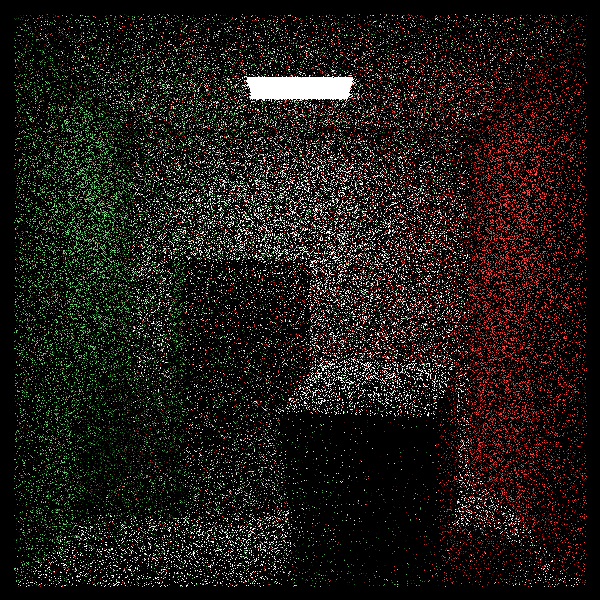
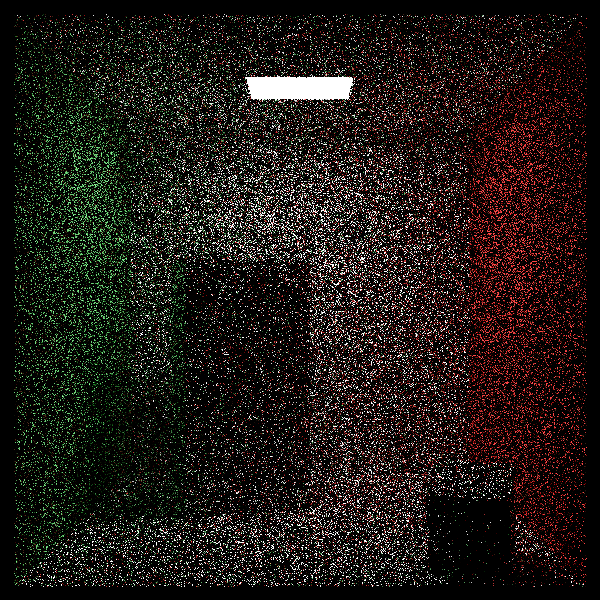
Cornell scene with scaling boxes

diff --git a/hittable.h b/hittable.h
@@ -173,7 +173,7 @@ private:
     }
 };
 
-// 按顺序绕 x, y, z 轴逆时针旋转 α, β, γ 度（注意绕轴顺序不通得到的结果大部分情况是不同的！）
+// 按顺序绕 x, y, z 轴逆时针旋转 α, β, γ 度（注意绕轴顺序不同得到的结果大部分情况是不同的！）
 // https://blog.csdn.net/shenquanyue/article/details/103262512
 /*
  * 首先绕 X 轴逆时针旋转 α 度
@@ -209,9 +209,9 @@ private:
  * z''' = -sin(α)y'' + cos(α)z'' = sin(α)sin(γ)x - sin(α)cos(γ)y + cos(α)cos(β)z + sin(β)cos(α)cos(γ)x + sin(β)sin(γ)cos(α)y
  * 							    = (sin(β)cos(α)cos(γ) + sin(α)sin(γ))x + (sin(β)sin(γ)cos(α) - sin(α)cos(γ))y + cos(α)cos(β)z
  */
-class rotate : public hittable {
+class rotate_xyz : public hittable {
 public:
-    rotate(shared_ptr<hittable> object, float alpha, float beta, float gamma) : object(object) {
+    rotate_xyz(shared_ptr<hittable> object, float alpha, float beta, float gamma) : object(object) {
         auto alpha_radians = degrees_to_radians(alpha);
         auto beta_radians = degrees_to_radians(beta);
         auto gamma_radians = degrees_to_radians(gamma);
@@ -307,6 +307,40 @@ private:
                      cos_alpha * cos_beta * v.z();
         return vec3(vec_x, vec_y, vec_z);
     }
+};
+
+// 缩放操作
+class scaling : public hittable {
+public:
+    scaling(shared_ptr<hittable> object, const vec3 &scale) : object(object), scale(scale) {
+        bbox = object->bounding_box() * scale;
+    }
+
+    bool hit(const ray &r, interval ray_t, hit_record &rec) const override {
+        // Transform the ray from world space to object space
+        ray scaling_r(r.origin() / scale, r.direction() / scale, r.time());
+
+        // Determine whether an intersection exists in objects in object space (and if so, where).
+        if (!object->hit(scaling_r, ray_t, rec))
+            return false;
+
+        // Transform the intersection from object space back to world space.
+        rec.p *= scale;
+
+        // 调整法向量
+        rec.normal = unit_vector(rec.normal / scale);
+
+        return true;
+    }
+
+    aabb bounding_box() const override {
+        return bbox;
+    }
+
+private:
+    shared_ptr<hittable> object;
+    vec3 scale;
+    aabb bbox;
 };
 
 #endif // HITTABLE_H

diff --git a/main.cpp b/main.cpp
@@ -258,13 +258,14 @@ void cornell_box() {
 
     // two blocks
     shared_ptr<hittable> box1 = box(point3(0.0f, 0.0f, 0.0f), point3(165.0f, 330.0f, 165.0f), white);
-    box1 = make_shared<rotate>(box1, 0.0f, 15.0f, 0.0f);
+    box1 = make_shared<rotate_xyz>(box1, 0.0f, 15.0f, 0.0f);
     box1 = make_shared<translate>(box1, vec3(265.0f, 0.0f, 295.0f));
     world.add(box1);
 
     shared_ptr<hittable> box2 = box(point3(0.0f, 0.0f, 0.0f), point3(165.0f, 165.0f, 165.0f), white);
-    box2 = make_shared<rotate>(box2, -15.0f, -18.0f, 0.0f);
+    box2 = make_shared<rotate_xyz>(box2, -15.0f, -18.0f, 0.0f);
     box2 = make_shared<translate>(box2, vec3(130.0f, 0.0f, 65.0f));
+    box2 = make_shared<scaling>(box2, vec3(0.5f, 0.5f, 0.5f));
     world.add(box2);
 
     camera cam;

diff --git a/vec3.h b/vec3.h
@@ -38,6 +38,13 @@ public:
         return *this;
     }
 
+    vec3 &operator*=(const vec3 &v) {
+        e[0] *= v.e[0];
+        e[1] *= v.e[1];
+        e[2] *= v.e[2];
+        return *this;
+    }
+
     vec3 &operator/=(float t) {
         return *this *= 1.0f / t;
     }
@@ -83,6 +90,10 @@ inline vec3 operator-(const vec3 &u, const vec3 &v) {
 
 inline vec3 operator*(const vec3 &u, const vec3 &v) {
     return vec3(u.e[0] * v.e[0], u.e[1] * v.e[1], u.e[2] * v.e[2]);
+}
+
+inline vec3 operator/(const vec3 &u, const vec3 &v) {
+    return vec3(u.e[0] / v.e[0], u.e[1] / v.e[1], u.e[2] / v.e[2]);
 }
 
 inline vec3 operator*(float t, const vec3 &v) {

diff --git a/aabb.h b/aabb.h
@@ -88,8 +88,16 @@ aabb operator+(const aabb &bbox, const vec3 &offset) {
     return aabb(bbox.x + offset.x(), bbox.y + offset.y(), bbox.z + offset.z());
 }
 
-aabb operator+(const vec3 &offset,const aabb &bbox) {
+aabb operator+(const vec3 &offset, const aabb &bbox) {
     return bbox + offset;
+}
+
+aabb operator*(const aabb &bbox, const vec3 &scale) {
+    return aabb(bbox.x * scale.x(), bbox.y * scale.y(), bbox.z * scale.z());
+}
+
+aabb operator*(const vec3 &scale, const aabb &bbox) {
+    return bbox * scale;
 }
 
 #endif // AABB_H

diff --git a/interval.h b/interval.h
@@ -52,4 +52,12 @@ interval operator+(float displacement, const interval &ival) {
     return ival + displacement;
 }
 
+interval operator*(const interval &ival, float displacement) {
+    return interval(ival.min * displacement, ival.max * displacement);
+}
+
+interval operator*(float displacement, const interval &ival) {
+    return ival * displacement;
+}
+
 #endif // INTERVAL_H
